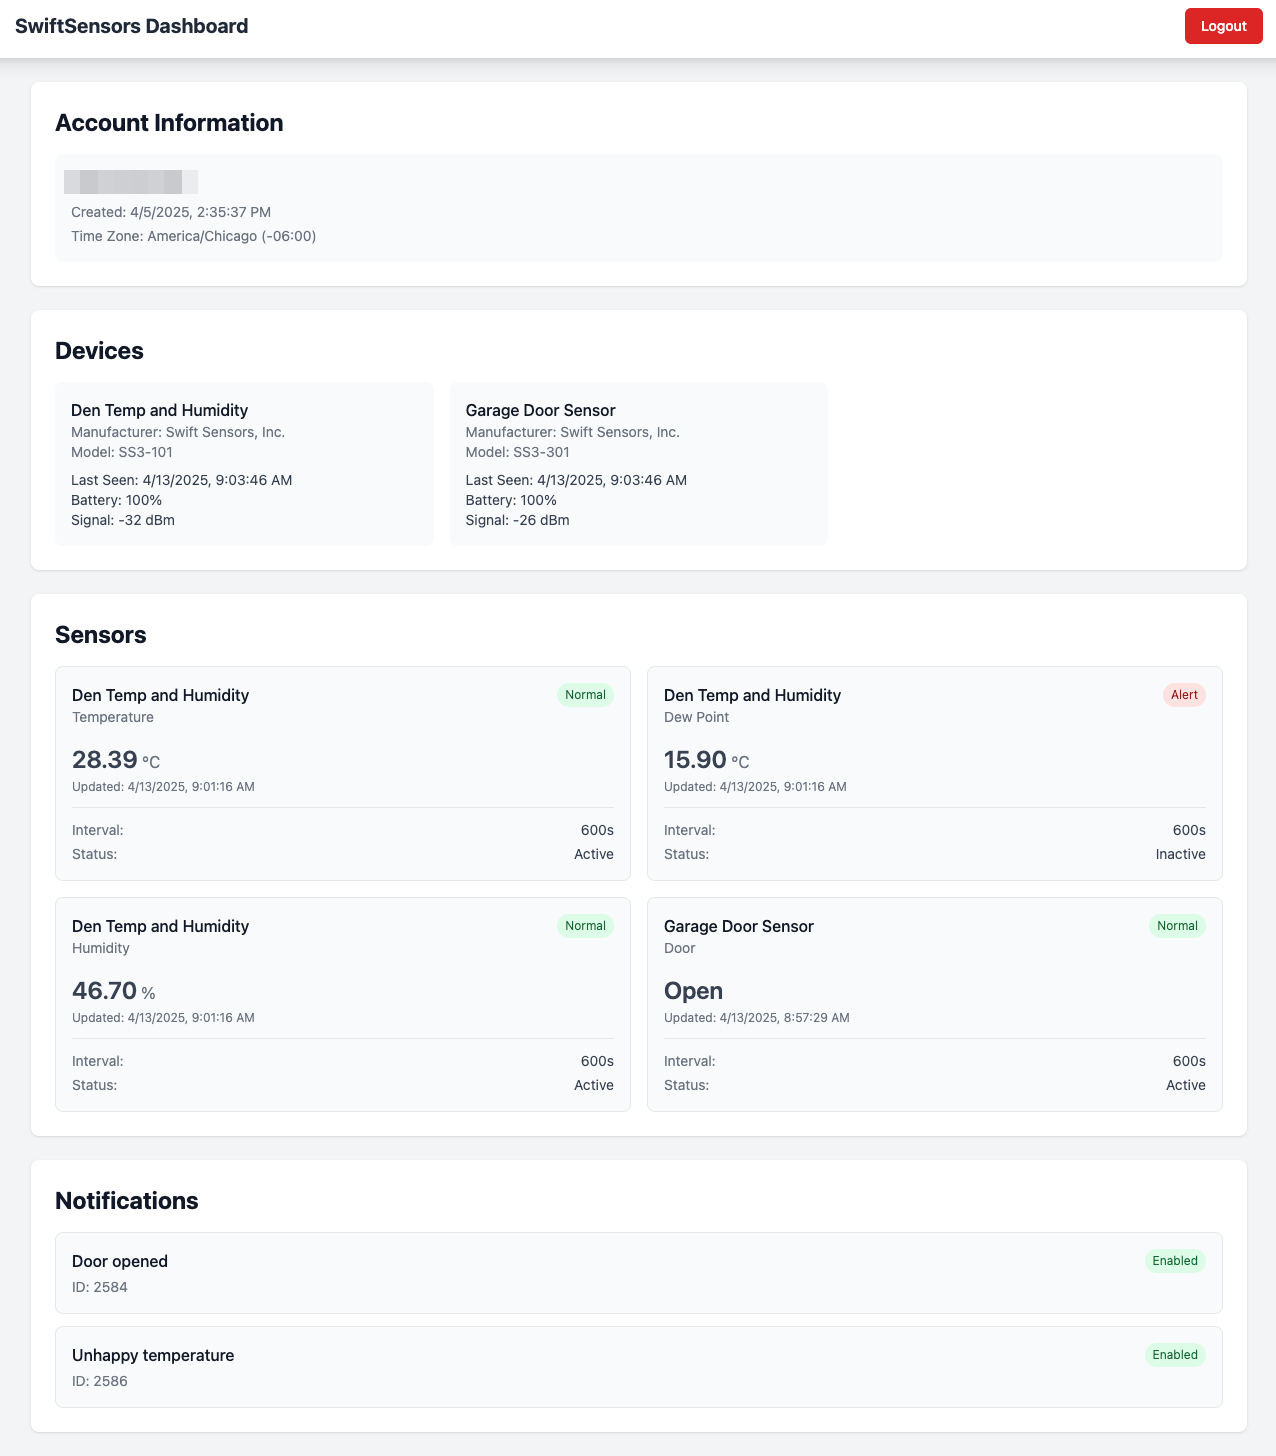
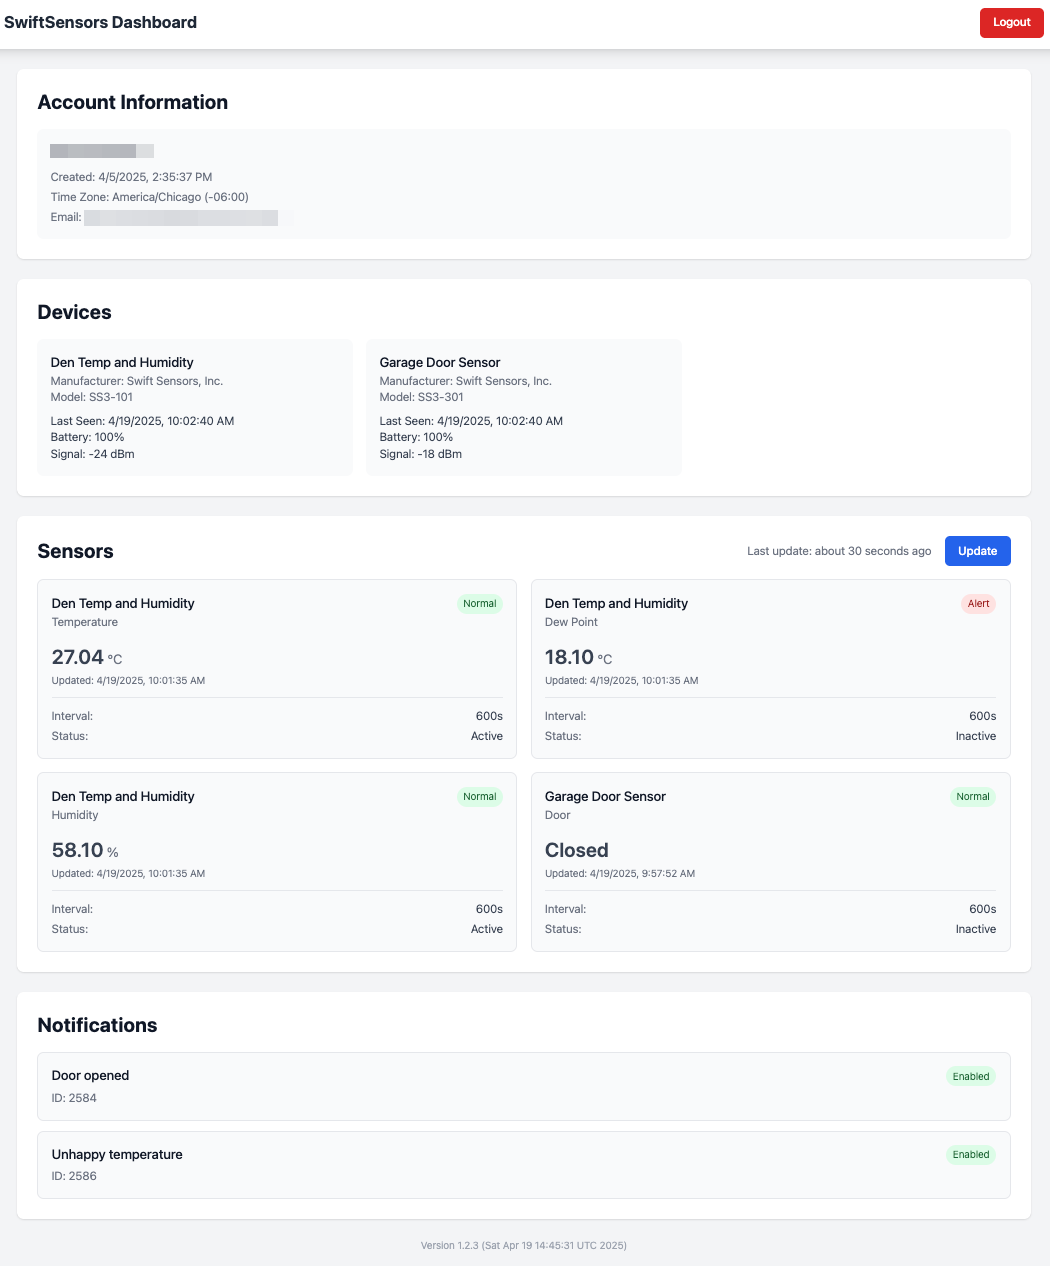
Update README.md to clarify application usage and add mobile dashboard screenshot. Modify slack-test-notification.yml for clearer test result messaging. Remove unused workflow dispatch inputs from test-gh-pages.yml to streamline CI/CD process.

diff --git a/README.md b/README.md
@@ -1,8 +1,8 @@
 # SwiftSensors Web Application
 
 A Vue 3 web application for monitoring and managing SwiftSensors devices, sensors, and notifications. 
-This application was build using Cursor.com on MacOS 15.4 and Windows 11. The application was build 
-based on the [SwiftSensors public API](https://my.swiftsensors.net/api-docs) and has other than that 
+This application was build using Cursor.com on MacOS 15.4 and Windows 11. The application using
+the [SwiftSensors public API](https://my.swiftsensors.net/api-docs) but has other than that 
 no relation to SwiftSensors. Specifically, this application is not supported by SwiftSensors. 
 
 ![GH Pages Deployment](https://github.com/klaushofrichter/SwiftEventWeb/actions/workflows/deploy.yml/badge.svg?event=push&label=GH%20Pages)
@@ -41,8 +41,9 @@ no relation to SwiftSensors. Specifically, this application is not supported by 
   - Login with CORS handling via proxy
   - Automatic token refresh and local storage of credentials
 
-## Screenshot
+## Screenshots
 <img src="/public/swiftsensorsweb.png" alt="SwiftSensors Web Dashboard" width="50%" />
+<img src="/public/swiftsensorsmobile.png" alt="SwiftSensors Mobile Dashboard" width="50%" />
 
 ## Technology Stack
 
